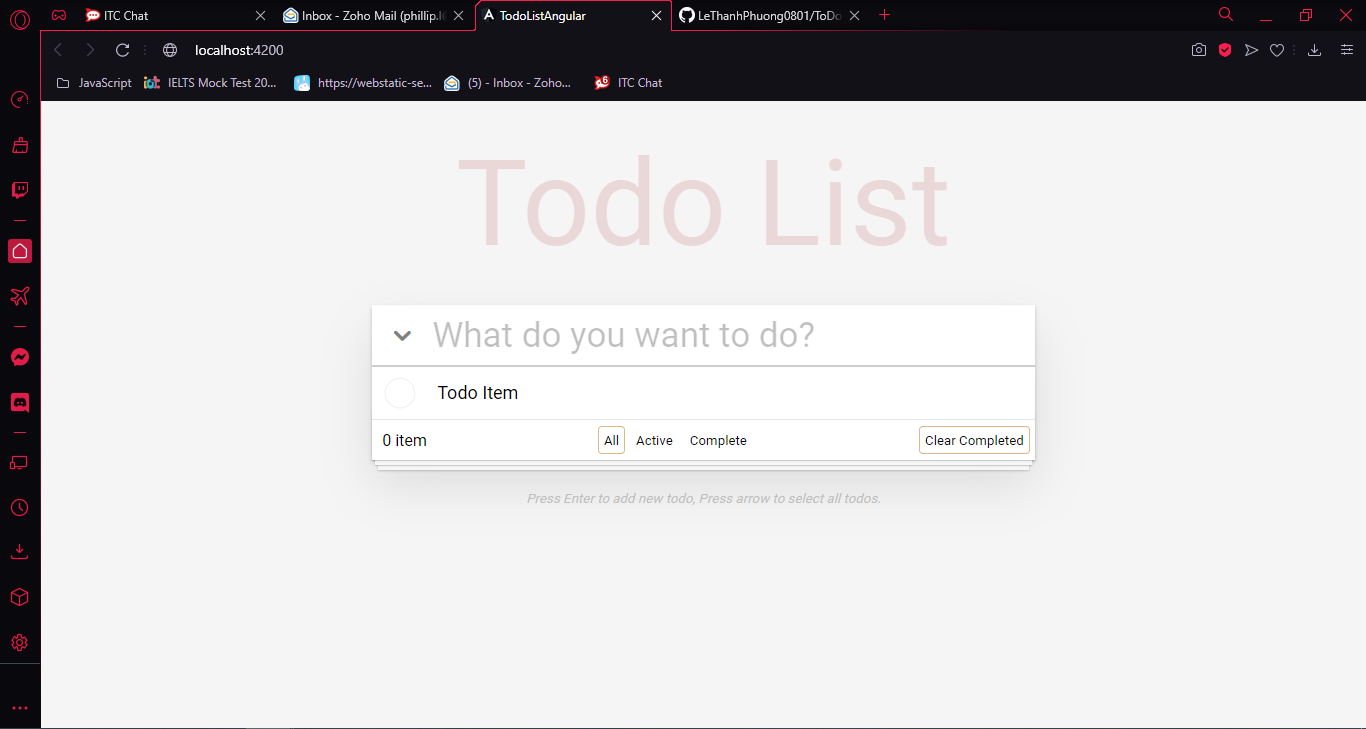
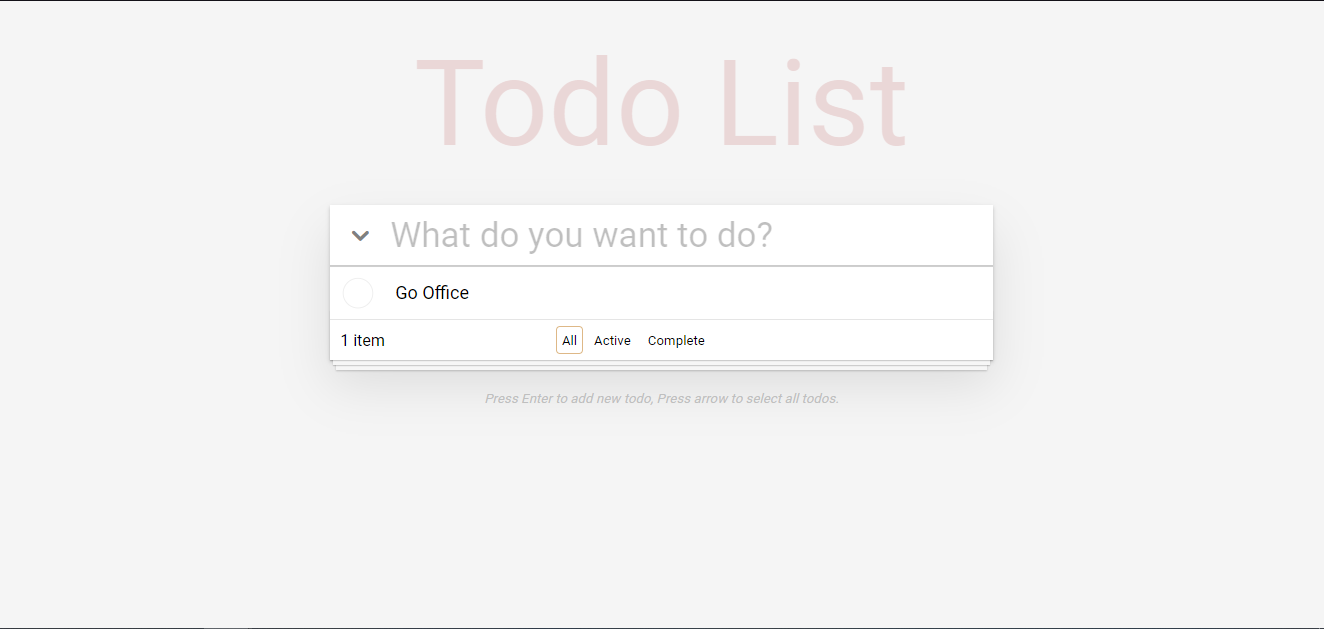
Finish Todo list

Changed region(s): [[0.0, 0.0, 1.0, 1.0], [0.2477, 0.4229, 0.7742, 0.6948], [0.1858, 0.9968, 1.0, 1.0]]

diff --git a/src/app/services/todo.service.ts b/src/app/services/todo.service.ts
@@ -8,18 +8,18 @@ import { Todo } from '../models/todo.model';
 })
 export class TodoService {
 
+  private static readonly todoStorageKey = "todos";
+
   private todos: Todo[];
   private filterTodos: Todo[];
   private lengthSubject: BehaviorSubject<number> = new BehaviorSubject<number>(0);
   private displayTodosSubject: BehaviorSubject<Todo[]> = new BehaviorSubject<Todo[]>([]);
   private currentFilter: Filter = Filter.All;
 
-  todo$: Observable<Todo[]> = this.displayTodosSubject.asObservable();
+  todos$: Observable<Todo[]> = this.displayTodosSubject.asObservable();
   length$: Observable<number> = this.lengthSubject.asObservable();
-  constructor(){}
-  private UpdateTodosData(){
-    this.displayTodosSubject.next(this.filterTodos);
-    this.lengthSubject.next(this.todos.length);
+  constructor(){
+    this.todos =[];
   }
 
   public FilterTodo(filter: Filter){
@@ -32,7 +32,7 @@ export class TodoService {
         this.filterTodos = this.todos.filter(todo => todo.isCompleted);
         break;
       case Filter.All:
-        this.filterTodos = this.todos;
+        this.filterTodos = [...this.todos.map(todo => ({...todo}))];
         break;
     }
   }
@@ -41,5 +41,50 @@ export class TodoService {
     const date = new Date(Date.now()).getTime();
     const newTodo = new Todo(date, content);
     this.todos.unshift(newTodo);
+    this.UpdateTodosData();
   }
+
+  ChangeTodoStatus(id: number, isCompleted: boolean) {
+    const index = this.todos.findIndex(t => t.id === id);
+    const todo = this.todos[index];
+    todo.isCompleted = isCompleted;
+    this.todos.splice(index, 1, todo);
+    this.UpdateTodosData();
+  }
+
+  EditTodo(id: number, content: string){
+    const index = this.todos.findIndex(t => t.id === id);
+    const todo = this.todos[index];
+    todo.content = content;
+    this.todos.splice(index, 1, todo);
+    this.UpdateTodosData();
+  }
+
+  DeleteTodo(id:number) {
+    const index = this.todos.findIndex(t => t.id === id);
+    this.todos.splice(index, 1);
+    this.UpdateTodosData();
+  }
+
+  ToggleAll() {
+    this.todos = this.todos.map(todo => {
+      return{
+        ...todo,
+        isCompleted: !this.todos.every(t => t.isCompleted)
+      };
+    });
+    this.UpdateTodosData();
+  }
+
+  ClearCompleted(){
+    this.todos = this.todos.filter(todo => !todo.isCompleted);
+    this.UpdateTodosData();
+  }
+
+  public UpdateTodosData(){
+    this.FilterTodo(this.currentFilter);
+    this.displayTodosSubject.next(this.filterTodos);
+    this.lengthSubject.next(this.todos.length);
+  }
+
 }

diff --git a/src/app/components/todo-footer/todo-footer.component.ts b/src/app/components/todo-footer/todo-footer.component.ts
@@ -1,12 +1,15 @@
-import { Component, OnInit } from '@angular/core';
+import { Component, OnDestroy, OnInit } from '@angular/core';
+import { Observable, Subject } from 'rxjs';
+import { map, takeUntil } from 'rxjs/operators';
 import { Filter, FilterButton } from 'src/app/models/filtering.model';
+import { TodoService } from 'src/app/services/todo.service';
 
 @Component({
   selector: 'app-todo-footer',
   templateUrl: './todo-footer.component.html',
   styleUrls: ['./todo-footer.component.scss']
 })
-export class TodoFooterComponent implements OnInit {
+export class TodoFooterComponent implements OnInit, OnDestroy{
   filterButtons: FilterButton[] = [
     {type: Filter.All, label:'All', isActive: true},
     {type: Filter.Active, label:'Active', isActive: false},
@@ -14,10 +17,36 @@ export class TodoFooterComponent implements OnInit {
 ];
   
   length:number = 0;
-  
-  constructor() { }
+  hasCompleted$: Observable<boolean>;
+  destroy$: Subject<null> = new Subject<null>();
+
+  constructor(private todoService: TodoService) { }
 
   ngOnInit(): void {
+    this.hasCompleted$ = this.todoService.todos$.pipe(map(todos => todos.some(t => t.isCompleted)), takeUntil(this.destroy$));
+    this.todoService.length$.pipe(takeUntil(this.destroy$)).subscribe(length => {
+      this.length = length;
+    })
   }
 
+  Filter(type: Filter) {
+    this.SetActiveBtn(type);
+    this.todoService.FilterTodo(type);
+    this.todoService.UpdateTodosData();
+  }
+
+  private SetActiveBtn(type: Filter) {
+    this.filterButtons.forEach(btn => {
+      btn.isActive = btn.type === type;
+    });
+  }
+
+  ClearCompleted() {
+    this.todoService.ClearCompleted();
+  }
+
+  ngOnDestroy() {
+    this.destroy$.next();
+    this.destroy$.complete();
+  }
 }

diff --git a/src/app/components/todo-item/todo-item.component.ts b/src/app/components/todo-item/todo-item.component.ts
@@ -1,18 +1,55 @@
-import { Component, OnInit } from '@angular/core';
+import { trigger, state, style, transition, animate } from '@angular/animations';
+import { Component, Input, OnInit, Output, EventEmitter } from '@angular/core';
+import { Todo } from 'src/app/models/todo.model';
+
+const fateAnimations = trigger('completeAnimations', [
+  state('active', style({
+    fontSize: '18px',
+    color: 'black'
+  })),
+  state('completed', style({
+    fontSize: '18px',
+    color: 'grey',
+    textDecoration: 'line-through'
+  })),
+  transition('active <=> completed', [animate(250)]),
+]);
 
 @Component({
   selector: 'app-todo-item',
   templateUrl: './todo-item.component.html',
-  styleUrls: ['./todo-item.component.scss']
+  styleUrls: ['./todo-item.component.scss'],
+  animations: [fateAnimations]
 })
 export class TodoItemComponent implements OnInit {
 
+  @Input() todo: Todo;
+  @Output() changeStatus: EventEmitter<Todo> = new EventEmitter<Todo>();
+  @Output() editStatus: EventEmitter<Todo> = new EventEmitter<Todo>();
+  @Output() deleteTodo: EventEmitter<Todo> = new EventEmitter<Todo>();
+
   isHovered = false;
   isEditing = false;
-
+  
   constructor() { }
 
   ngOnInit(): void {
   }
 
+  ChangeTodoStatus(){
+    this.changeStatus.emit({...this.todo, isCompleted: !this.todo.isCompleted});
+  }
+
+  SubmitEditing(event: KeyboardEvent){
+    const {keyCode} = event;
+    event.preventDefault();
+    if (keyCode === 13){
+      this.editStatus.emit(this.todo);
+      this.isEditing = false;
+    }
+  }
+
+  RemoveTodo() {
+    this.deleteTodo.emit(this.todo);
+  }
 }

diff --git a/src/app/components/todo-item/todo-item.component.html b/src/app/components/todo-item/todo-item.component.html
@@ -1,17 +1,17 @@
 <div class="todo-item" (mouseover)="isHovered = true" (mouseout)="isHovered = false">
     <div class="todo">
-        <input type="checkbox" class="toggle">
-        <label>Todo Item</label>
+        <input type="checkbox" [id]="todo.id" [ngClass]="{'checked': todo.isCompleted}" (change)="ChangeTodoStatus()" class="toggle" [checked]="todo.isCompleted">
+        <label [for]="todo.id" [@completeAnimations]="todo.isCompleted ? 'completed': 'active'" >{{ todo.content }}</label>
     </div>
     <div class="icons">
-        <span class="icon-wrapper edit" [ngClass]="{'active': isHovered}">
+        <span class="icon-wrapper edit" [hidden]="todo.isCompleted" [ngClass]="{'active': isHovered}">
             <i class="eva eva-edit-outline" (click)="isEditing = true"></i>
         </span>
         <span class="icon-wrapper" [ngClass]="{'active': isHovered}">
-            <i class="eva eva-close"></i>
+            <i class="eva eva-close" (click)="RemoveTodo()"></i>
         </span>
     </div>
-    <form class="edit-form" *ngIf="isEditing">
-        <input type="text" name="editTodo">
+    <form class="edit-form" *ngIf="isEditing" (keyup)="SubmitEditing($event)">
+        <input type="text" name="editTodo" [(ngModel)]="todo.content">
     </form>
 </div>

diff --git a/src/app/app.module.ts b/src/app/app.module.ts
@@ -1,6 +1,6 @@
 import { NgModule } from '@angular/core';
 import { BrowserModule } from '@angular/platform-browser';
-
+import { BrowserAnimationsModule } from '@angular/platform-browser/animations'
 import { AppComponent } from './app.component';
 import { TodoListComponent } from './components/todo-list/todo-list.component';
 import { TodoItemComponent } from './components/todo-item/todo-item.component';
@@ -8,6 +8,7 @@ import { TodoInputComponent } from './components/todo-input/todo-input.component
 import { TodoHeaderComponent } from './components/todo-header/todo-header.component';
 import { TodoFooterComponent } from './components/todo-footer/todo-footer.component';
 import { FormsModule } from '@angular/forms';
+import { from } from 'rxjs';
 
 @NgModule({
   declarations: [
@@ -20,7 +21,8 @@ import { FormsModule } from '@angular/forms';
   ],
   imports: [
     BrowserModule,
-    FormsModule
+    FormsModule,
+    BrowserAnimationsModule
   ],
   providers: [],
   bootstrap: [AppComponent]

diff --git a/src/app/components/todo-list/todo-list.component.ts b/src/app/components/todo-list/todo-list.component.ts
@@ -1,4 +1,7 @@
 import { Component, OnInit } from '@angular/core';
+import { Observable } from 'rxjs';
+import { Todo } from 'src/app/models/todo.model';
+import { TodoService } from 'src/app/services/todo.service';
 
 @Component({
   selector: 'app-todo-list',
@@ -7,9 +10,23 @@ import { Component, OnInit } from '@angular/core';
 })
 export class TodoListComponent implements OnInit {
 
-  constructor() { }
+  todos$: Observable<Todo[]>;
+
+  constructor(private todoService: TodoService) { }
 
   ngOnInit(): void {
+    this.todos$ = this.todoService.todos$;
+  }
+  OnChangeTodoStatus(todo: Todo) {
+    this.todoService.ChangeTodoStatus(todo.id, todo.isCompleted);
   }
 
+  OnEditTodo(todo: Todo)
+  {
+    this.todoService.EditTodo(todo.id, todo.content);
+  }
+
+  OnDeleteTodo(todo: Todo) {
+    this.todoService.DeleteTodo(todo.id);
+  }
 }

diff --git a/src/app/components/todo-footer/todo-footer.component.html b/src/app/components/todo-footer/todo-footer.component.html
@@ -2,8 +2,8 @@
     <div class="footer-todo" style="top: 0; bottom: 0; left: 0; right: 0;">
         <span class="items-count">{{ length }} item{{ length > 1 ? 's': ''}}</span>
         <div>
-            <button type="button" class="filter-btn" *ngFor="let btn of filterButtons" [ngClass]="{ active: btn.isActive}">{{ btn.label }}</button>
+            <button type="button" class="filter-btn" (click)="Filter(btn.type)" *ngFor="let btn of filterButtons" [ngClass]="{ active: btn.isActive}">{{ btn.label }}</button>
         </div>
-        <button class="filter-btn clear-completed-btn">Clear Completed</button>
+        <button class="filter-btn clear-completed-btn" [ngClass]="{'visible': hasCompleted$ | async}" (click)="ClearCompleted()" >Clear Completed</button>
     </div>
 </div>

diff --git a/src/app/components/todo-header/todo-header.component.ts b/src/app/components/todo-header/todo-header.component.ts
@@ -1,4 +1,5 @@
 import { Component, OnInit } from '@angular/core';
+import { TodoService } from 'src/app/services/todo.service';
 
 @Component({
   selector: 'app-todo-header',
@@ -7,9 +8,12 @@ import { Component, OnInit } from '@angular/core';
 })
 export class TodoHeaderComponent implements OnInit {
 
-  constructor() { }
+  constructor(private todoService: TodoService) { }
 
   ngOnInit(): void {
   }
 
+  ToggleAll() {
+    this.todoService.ToggleAll();
+  }
 }

diff --git a/src/app/app.component.html b/src/app/app.component.html
@@ -4,7 +4,7 @@
     <div class="todo-wrapper col-md-6 col-sm-8">
       <app-todo-header></app-todo-header>
       <app-todo-list></app-todo-list>
-      <app-todo-footer ></app-todo-footer>
+      <app-todo-footer *ngIf="hasTodo$ | async"></app-todo-footer>
     </div>
   </div>
   <small class="instruction">

diff --git a/src/app/components/todo-list/todo-list.component.html b/src/app/components/todo-list/todo-list.component.html
@@ -1,1 +1,4 @@
-<app-todo-item></app-todo-item>
+<app-todo-item *ngFor="let todo of todos$ | async" [todo] = "todo" 
+(changeStatus)="OnChangeTodoStatus($event)" 
+(editStatus)="OnEditTodo($event)"
+(deleteTodo)="OnDeleteTodo($event)"> </app-todo-item>

diff --git a/src/app/components/todo-header/todo-header.component.html b/src/app/components/todo-header/todo-header.component.html
@@ -1,6 +1,6 @@
 <div class="todo-header">
     <span class="icon-wrapper">
-        <i class="eva eva-chevron-down"></i>
+        <i class="eva eva-chevron-down" (click)="ToggleAll()"></i>
     </span>
     <app-todo-input></app-todo-input>
 </div>

diff --git a/src/app/app.component.ts b/src/app/app.component.ts
@@ -16,6 +16,7 @@ export class AppComponent implements OnInit {
 
   ngOnInit()
   {
+    this.todoService.UpdateTodosData();
     this.hasTodo$ = this.todoService.length$.pipe(map(length => length > 0))
   }
 }
